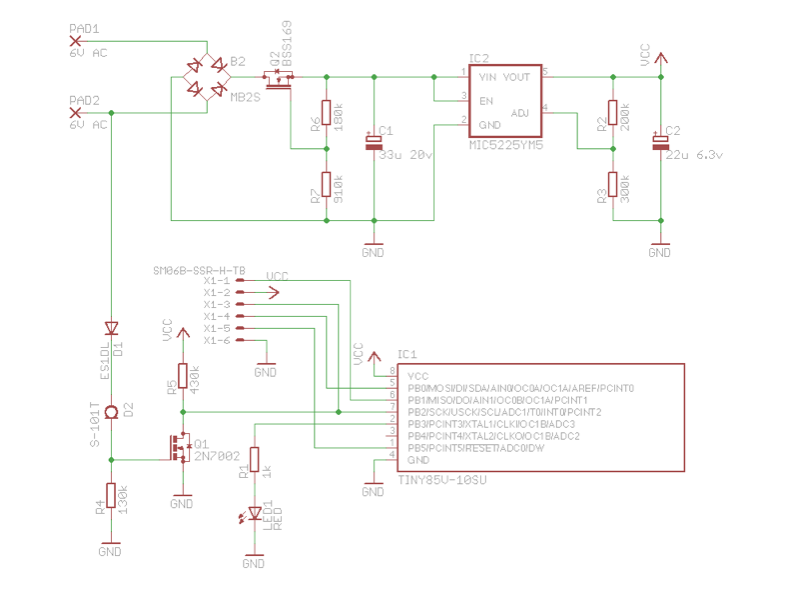
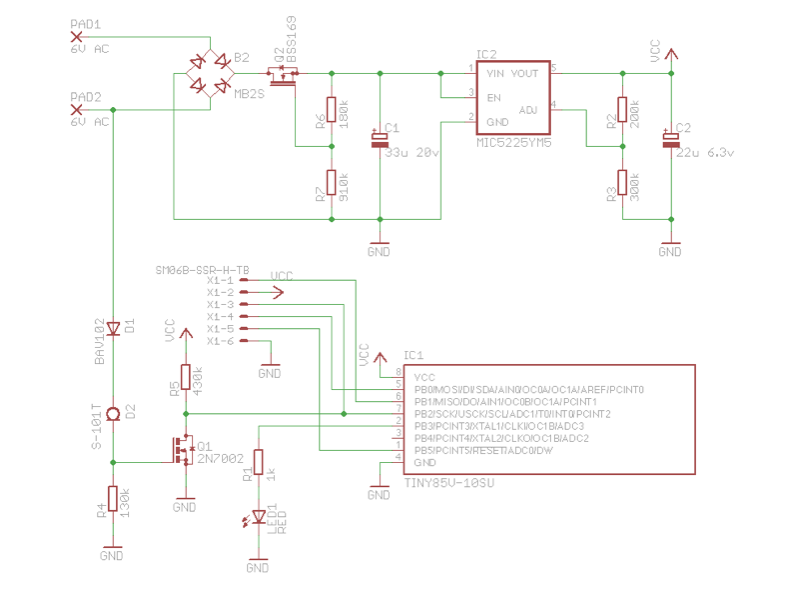
changed diode

Changed region(s): [[0.0625, 0.03, 0.9062, 0.96]]

diff --git a/docs/Hardware.md b/docs/Hardware.md
@@ -26,7 +26,7 @@ The JST connector has the six pins needed for the **I**n **S**ystem **P**rogramm
 |B2      | MB2S              | SOIC-4         |
 |C1      | 33u 20v Tantalum  | SMC_C          |
 |C2      | 22u 6.3v Tantalum | SMC_A          |
-|D1      | ES1DL             | Sub SMA        |
+|D1      | BAV102            | SOD80C         |
 |D2      | S-101T            | S series       |
 |IC1     | TINY85V-10SU      | SOIC-8         |
 |IC2     | MIC5225YM5        | SOT25          |
